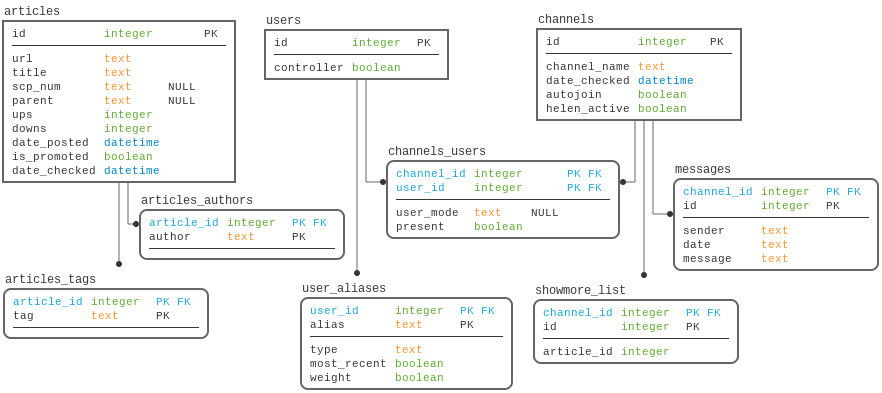
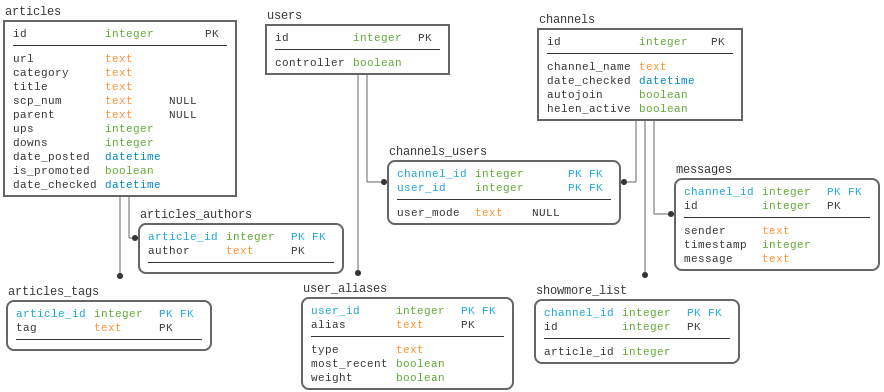
Article extraction works

diff --git a/helpers/database.py b/helpers/database.py
@@ -60,6 +60,12 @@ class SqliteDriver:
         print("Database Driver loaded!")
         self._create_database()
 
+    def commit(self):
+        """Just commits the database.
+        For use by external functions after batch operations.
+        To be used in conjuction with optional committing."""
+        self.conn.commit()
+
     def _check_exists(self, name, type='table'):
         """Check if something exists in the database"""
         c = self.conn.cursor()
@@ -139,6 +145,8 @@ class SqliteDriver:
             CREATE TABLE IF NOT EXISTS articles (
                 id INTEGER PRIMARY KEY,
                 url TEXT NOT NULL,
+                category TEXT NOT NULL
+                    DEFAULT '_default',
                 title TEXT NOT NULL,
                 scp_num TEXT,
                 parent TEXT,
@@ -551,6 +559,7 @@ class SqliteDriver:
         """Adds an article and its data to the db.
         article should be a dict as the response from API.get_meta.
         Set commit=False for mass addition, then commit afterwards."""
+        dbprint("Adding article {}".format(article['fullname']))
         c = self.conn.cursor()
         if 'ups' not in article:
             article['ups'] = article['rating']
@@ -564,6 +573,29 @@ class SqliteDriver:
             else:
                 article['category'] = '_default'
                 article['url'] = article['fullname']
+        # this dict will be fed into the database
+        article_data = {'url': article['url'],
+                        'category': article['category'],
+                        'title': ('PLACEHOLDER' if 'scp' in article['tags']
+                                  else article['title']),
+                        'scp_num': (None if 'scp' not in article['tags']
+                                    else article['title']),
+                        'parent': article['parent_fullname'],
+                        'ups': article['ups'],
+                        'downs': article['downs'],
+                        'date_posted': article['created_at']}
         c.execute('''
             SELECT id FROM articles WHERE url=?
                   ''', (article['url'], ))
+        if norm(c.fetchone()) is None:
+            # the article does not already exist
+            c.execute('''
+                INSERT OR REPLACE INTO articles
+                      (url, category, title, scp_num, parent,
+                       ups, downs, date_posted)
+                VALUES (:url, :category, :title, :scp_num, :parent,
+                        :ups, :downs, :date_posted)
+                      ''', article_data)
+        else:
+            # the article already exists and must be updated
+            dbprint("This article already exists", True)

diff --git a/commands/prop.py b/commands/prop.py
@@ -18,16 +18,17 @@ Server = ServerProxy('https://TARS:{}@www.wikidot.com/xml-rpc-api.php' \
 class propagate:
     @classmethod
     def command(cls, irc_c, msg, cmd):
-        if msg.nick != "Croquembouche":
-            raise CommandError("Only Croquembouche can do that.")
         # arg 1 should be a url name
         if len(cmd.args['root']) > 0:
-            propagate.get_wiki_data_for(cmd.args['root'], reply = msg.reply)
+            propagate.get_wiki_data_for(irc_c, cmd.args['root'], reply = msg.reply)
         else:
-            propagate.get_wiki_data(reply = msg.reply)
+            if msg.nick != "Croquembouche":
+                raise CommandError(("Only Croquembouche can use this command"
+                                    " without an argument."))
+            propagate.get_wiki_data(irc_c, reply = msg.reply)
 
     @classmethod
-    def get_wiki_data(cls, **kwargs):
+    def get_wiki_data(cls, irc_c, **kwargs):
         reply = kwargs.get('reply', lambda x: None)
         # 1. get a list of articles
         # 2. get data for each article
@@ -39,12 +40,12 @@ class propagate:
         reply("Ding")
 
     @classmethod
-    def get_wiki_data_for(cls, url, **kwargs):
+    def get_wiki_data_for(cls, irc_c, url, **kwargs):
         reply = kwargs.get('reply', lambda x: None)
         # get the wiki data for this article
         # we're taking all of root, so url is a list
         articles = Server.pages.get_meta({'site': "scp-wiki",
                                          'pages': url})
         for url,article in articles.items():
-            reply(str(article))
+            reply("Updating {} in the database".format(url))
             irc_c.db._driver.add_article(article)
